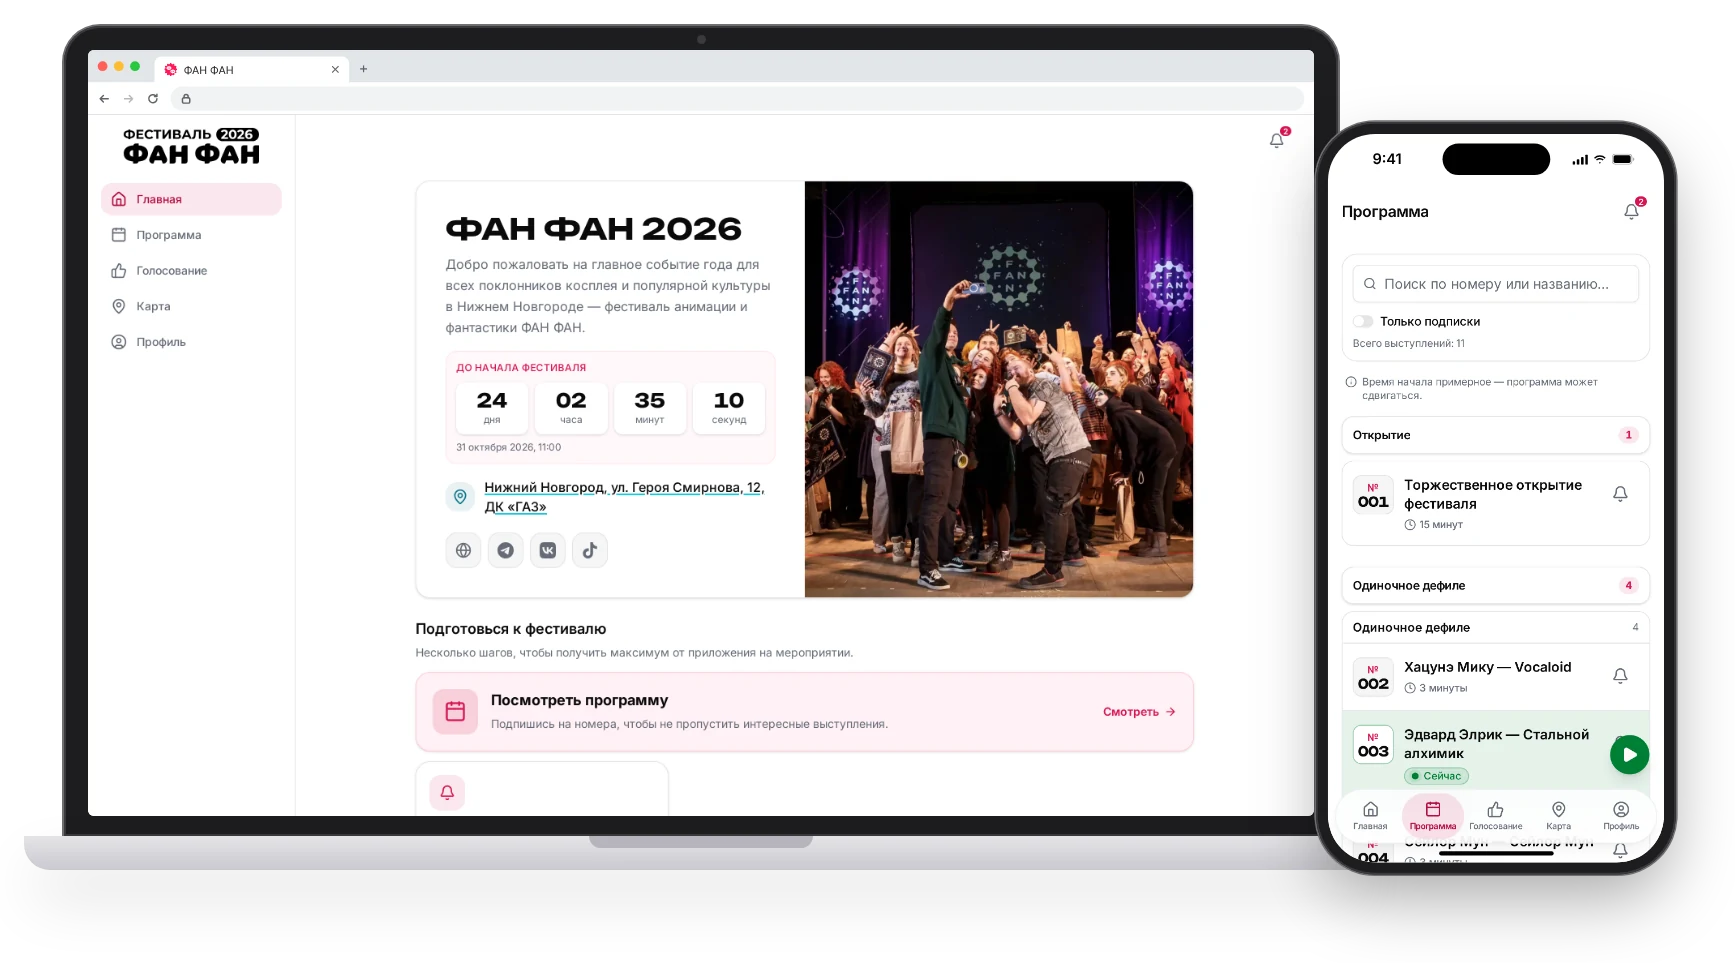
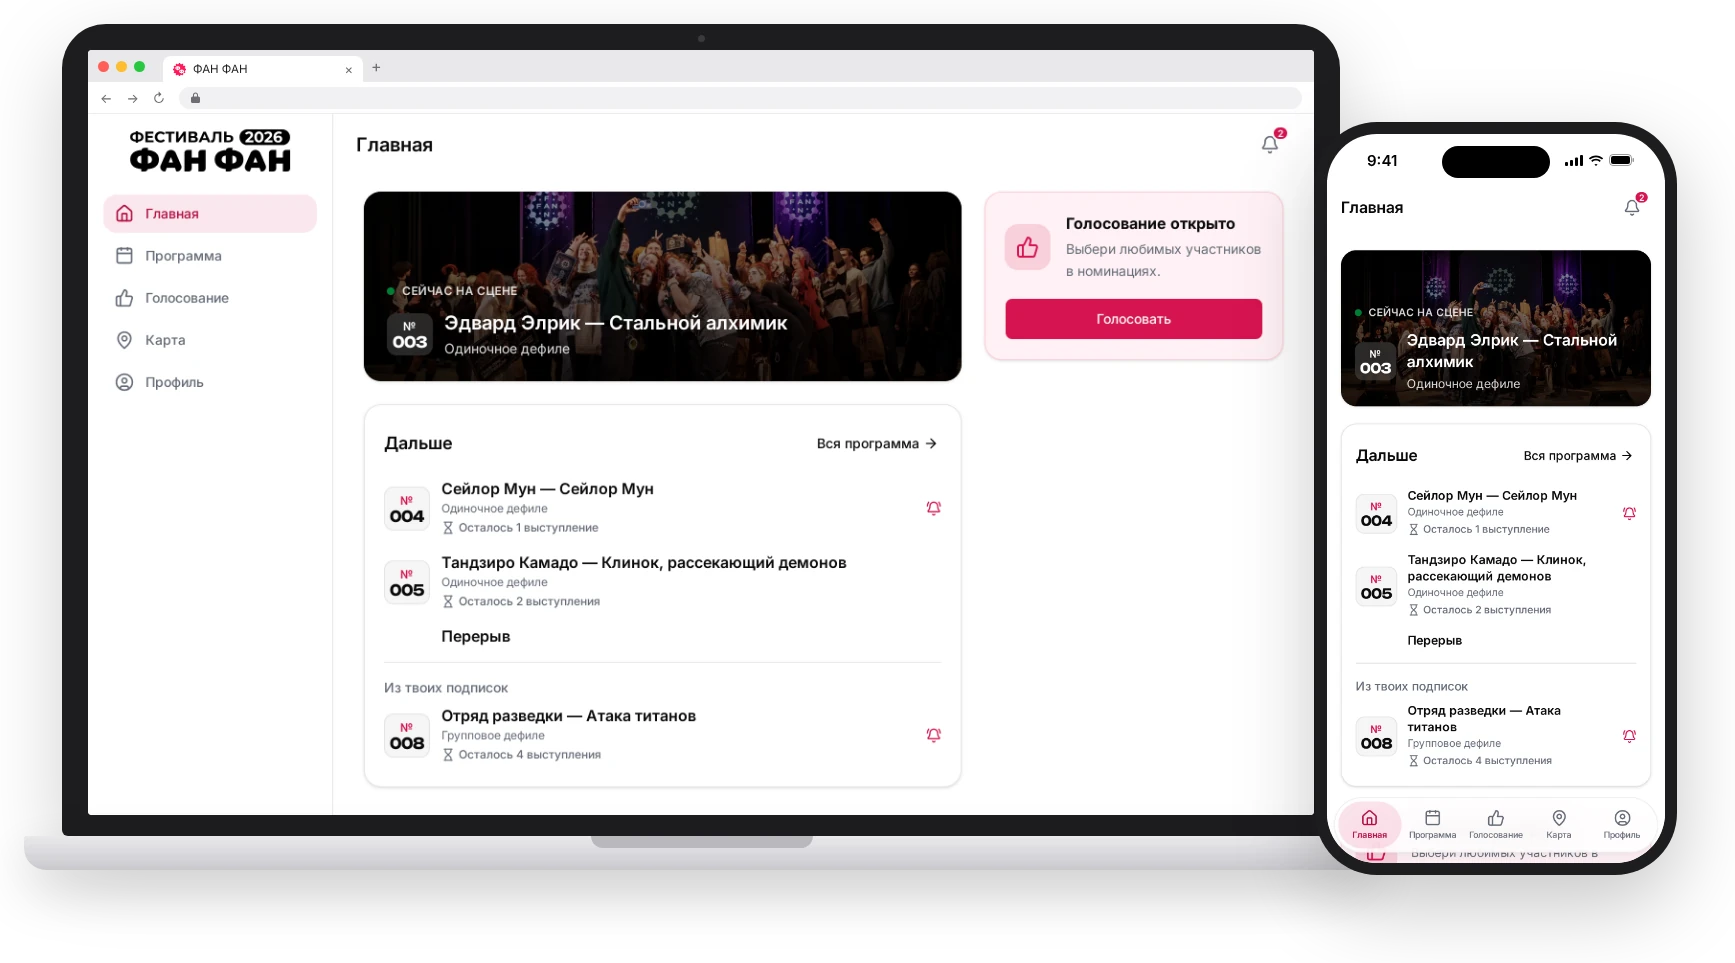
docs: refresh the readme header with the new festival-day home
The README header showed the old home page (welcome blurb, venue,
socials, setup cards) on the laptop. It's re-shot on the same 1735x963
transparent laptop + phone mockup, now with the home page on both
devices on festival day: the act on stage over the key art, "Дальше",
and the open-voting card. The data is the demo seed's programme
(seed_demo_data.py), captured from a production build with the API
mocked.

The features list gains a Home entry for the phase-driven page.

Claude-Session: https://claude.ai/code/session_01HtSGSbu4CfNMo53n5QQCEQ

diff --git a/README.md b/README.md
@@ -3,7 +3,7 @@
 [![CI](https://img.shields.io/github/actions/workflow/status/Arutemu64/fanapp/ci.yml?branch=main&label=CI)](https://github.com/Arutemu64/fanapp/actions/workflows/ci.yml?query=branch%3Amain)
 [![License: MIT](https://img.shields.io/github/license/Arutemu64/fanapp)](#license)
 
-![The FAN FAN app: the home page on a laptop and the event schedule on a phone](docs/assets/readme-header.webp)
+![The FAN FAN app on festival day: the home page on a laptop and a phone, with the act on stage over the key art, what's next, and open voting](docs/assets/readme-header.webp)
 
 Companion web app for the **FAN FAN** Russian anime convention. It gives attendees the event schedule, voting, notifications, and ticket-linked profiles from their phone, and gives organizers the tools to run all of it. Audience is teen to young-adult and non-technical, so the UI is mobile-first and all user-facing copy is in Russian.
 
@@ -19,6 +19,7 @@ This is a monorepo: a FastAPI backend, a SvelteKit frontend, and a shared OpenAP
 
 ## Features
 
+- **Home**: changes with the festival: a countdown before it, the act on stage and what's next during it, thanks and a feedback prompt after. An "open voting" card shows while voting runs, and a setup list (account, ticket, subscriptions, notifications, install) shows each person only the steps they still have.
 - **Schedule**: public event schedule with live changes, per-user subscriptions, and organizer management/import tools.
 - **Voting**: nominations and voting, with cosplay data synced from Cosplay2.
 - **Notifications**: in-app feed plus Web Push (VAPID) for broadcasts and per-user alerts.
